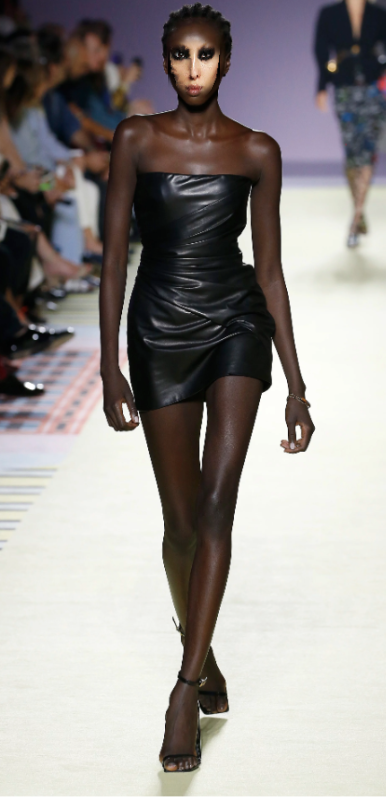
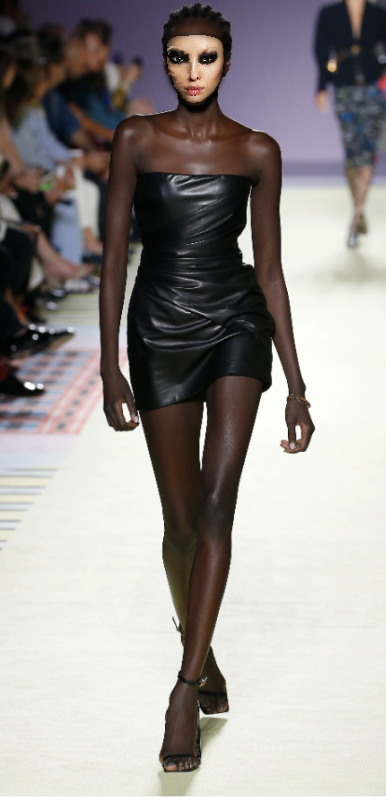
update put warped face back to original place

Changed region(s): [[0.4352, 0.0312, 0.5907, 0.125]]

diff --git a/face_processing_pipeline.py b/face_processing_pipeline.py
@@ -110,6 +110,9 @@ class FaceWarper:
         for triangle in triangles:
             pts = points[triangle]
             cv2.fillConvexPoly(mask, pts, 255)
+            
+        # Save the full face mask before cropping
+        cv2.imwrite('full_face_mask.png', mask)
         
         x, y, w, h = cv2.boundingRect(points[np.unique(triangles.flatten())])
         masked_face = cv2.bitwise_and(image, image, mask=mask)
@@ -119,9 +122,9 @@ class FaceWarper:
         b, g, r = cv2.split(cropped_face)
         cropped_face_rgba = cv2.merge((b, g, r, cropped_mask))
         
-        return cropped_face_rgba
+        # Return both the face and its coordinates and full face mask
+        return cropped_face_rgba, (x, y, w, h), mask
 
-    @staticmethod
     @staticmethod
     def warp_triangle(src_points, dst_points, src_triangle, dst_triangle, src_img, dst_img):
         """Warp a triangular region from source to destination."""
@@ -173,38 +176,23 @@ class FaceWarper:
         dst_img[rect2[1]:rect2[1] + rect2[3], rect2[0]:rect2[0] + rect2[2]] = blended.astype(np.uint8)
 
     @staticmethod
-    def replace_face_in_fullbody(fullbody_image, makeup_face, face_coords):
-        """Replace face in fullbody image with warped makeup face."""
-        x1, y1, x2, y2 = face_coords
-        
-        # Get landmarks and mesh for makeup face
-        landmark_detector = FaceLandmarkDetector()
-        makeup_landmarks = landmark_detector.get_landmarks(makeup_face)
-        triangles = FaceWarper.create_triangle_mesh(makeup_landmarks, makeup_face.shape)
-        cropped_makeup_face = FaceWarper.extract_face_region(makeup_face, makeup_landmarks, triangles)
-        cv2.imwrite('cropped_makeup_face.png', cropped_makeup_face)
-        
-        # Resize makeup face to match target face dimensions
-        face_height = y2 - y1
-        face_width = x2 - x1
-        makeup_face_resized = cv2.resize(cropped_makeup_face, (face_width, face_height))
-        
-        # Create result image and blending mask
+    def replace_face_in_fullbody(fullbody_image, warped_img, face_mask):
+        """Replace face in fullbody image with warped makeup face using the original face mask."""
         result_image = fullbody_image.copy()
-        mask = np.zeros((face_height, face_width), dtype=np.float32)
-        center = (face_width // 2, face_height // 2)
-        radius = min(face_width, face_height) // 2
-        cv2.circle(mask, center, radius, 1.0, -1)
+        
+        # Convert mask to float32 and normalize
+        mask = face_mask.astype(np.float32) / 255.0
+        
+        # Apply Gaussian blur to smooth the edges
         mask = cv2.GaussianBlur(mask, (19, 19), 0)
         
-        # Blend faces
-        for c in range(3):
-            result_image[y1:y2, x1:x2, c] = (
-                makeup_face_resized[:, :, c] * mask +
-                fullbody_image[y1:y2, x1:x2, c] * (1 - mask)
-            )
+        # Expand mask to 3 channels
+        mask = np.stack([mask] * 3, axis=-1)
         
-        return result_image
+        # Blend using the mask
+        result_image = warped_img * mask + fullbody_image * (1 - mask)
+        
+        return result_image.astype(np.uint8)
 
 
 
@@ -341,8 +329,13 @@ def main():
     target_triangles = FaceWarper.create_triangle_mesh(target_landmarks, target_img.shape)
     
     # Extract faces and save intermediate results
-    extracted_source_face = FaceWarper.extract_face_region(source_img, source_landmarks, source_triangles)
-    extracted_target_face = FaceWarper.extract_face_region(target_img, target_landmarks, target_triangles)
+    extracted_source_face, source_coords, source_mask = FaceWarper.extract_face_region(source_img, source_landmarks, source_triangles)
+    extracted_target_face, target_coords, full_target_mask = FaceWarper.extract_face_region(target_img, target_landmarks, target_triangles)
+    
+    # Save coordinates to a file
+    with open('face_coordinates.txt', 'w') as f:
+        f.write(f"Source face coordinates (x, y, w, h): {source_coords}\n")
+        f.write(f"Target face coordinates (x, y, w, h): {target_coords}\n")
     
     cv2.imwrite('extracted_source_face.png', extracted_source_face)
     cv2.imwrite('extracted_target_face.png', extracted_target_face)
@@ -368,10 +361,12 @@ def main():
     # Save warped result
     cv2.imwrite('warped_result.png', warped_img)
     
-    # Replace face in fullbody image
-    face_coords = face_detector.detect_face(target_img)
-    final_result = FaceWarper.replace_face_in_fullbody(target_img, warped_img, face_coords)
+    print("Warped image shape:", warped_img.shape)
+    print("Warped image min/max values:", np.min(warped_img), np.max(warped_img))
     
+    # Replace face in fullbody image using stored coordinates
+    final_result = FaceWarper.replace_face_in_fullbody(target_img, warped_img, full_target_mask)
+ 
     # Save final result
     cv2.imwrite('final_result.png', final_result)
     
